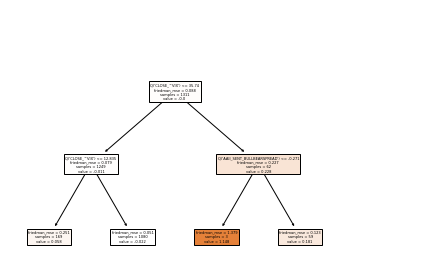
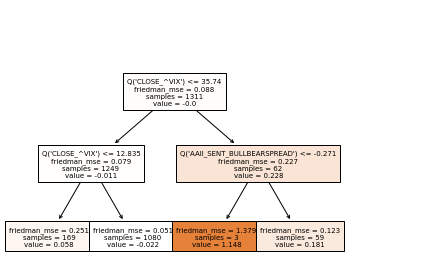
update env and reduce rounding

diff --git a/P1-AnalyzeTrades/P1-AnalyzeTrades_f_buildmodel.py b/P1-AnalyzeTrades/P1-AnalyzeTrades_f_buildmodel.py
@@ -9,6 +9,7 @@ retune = True #hyperparameter tuning
 # imports
 
 import importlib  # for importing other packages
+import os
 import pandas as pd
 import numpy as np
 from patsy import dmatrices
@@ -341,13 +342,17 @@ sub_tree_1 = reg.estimators_[0, 0]  # pull first 1 estimator, actual regressor v
 
 tree.plot_tree(sub_tree_1,
            feature_names = list(X_train.columns),
-           filled = True)
+           filled = True,
+            fontsize=7)
 
 plt.tight_layout()
 plt.savefig('tree_plot1.png',bbox_inches = "tight")
 plt.show()
 
 mlflow.log_artifact('tree_plot1.png')
+
+os.system('pipenv lock --keep-outdated -d -r > output/requirements.txt')
+mlflow.log_artifact('output/srequirements.txt')
 
 mlflow.end_run()
 
@@ -422,6 +427,9 @@ model_sig = infer_signature(X_train, y_train)
 mlflow.h2o.log_model(glm,'model',signature=model_sig)
 
 h2o.cluster().shutdown(prompt=False) 
+
+os.system('pipenv lock --keep-outdated -d -r > output/requirements.txt')
+mlflow.log_artifact('output/srequirements.txt')
 
 mlflow.end_run()
 
@@ -517,6 +525,9 @@ model_sig = infer_signature(X_train, y_train)
 mlflow.h2o.log_model(gbm,'model',signature=model_sig)
 
 h2o.cluster().shutdown(prompt=False) 
+
+os.system('pipenv lock --keep-outdated -d -r > output/requirements.txt')
+mlflow.log_artifact('output/srequirements.txt')
 
 mlflow.end_run()
 

diff --git a/P1-AnalyzeTrades/app.py b/P1-AnalyzeTrades/app.py
@@ -60,7 +60,7 @@ def main():
                                 'YEARS_TO_NORMALIZATION':YEARS_TO_NORMALIZATION,
                                 'IMPLIED_P_E': IMPLIED_P_E,
                 },
-                result=str(np.round(prediction,4)),
+                result=str(np.round(prediction,3)),
         )
 
 @app.route('/doc',methods=['GET'])

diff --git a/P1-AnalyzeTrades/README.md b/P1-AnalyzeTrades/README.md
@@ -22,6 +22,8 @@ C4 style approach, see README puml files and pngs
 
 ### C3 Backend Outline
 
+1. enter virtual environment for P-1...
+    1. if in vs-code can select environment from jupyter/python dropdown
 1. read in portfolio and trades from IB activity statement (tradelog..py)
 1. append own characteristics
 1. append market data
@@ -30,12 +32,13 @@ C4 style approach, see README puml files and pngs
 1. validation exhibits
 1. test estimated predicted return for single record
 1. **decide best model** by copying run from local mlflow to repo mlflow and update `app.py`
-1. **update requirements in P1- folder** by running `pipenv lock -r > requirements.txt` and copying to P1-... folder
-1. **run tests** including `pytest` and `docker build...` below
+1. **update requirements in P1- folder** by running `pipenv lock --keep-outdated -d -r > requirements.txt` outside virtual env and copying to P1-... folder
+    1. faster, if available: pull requirements.txt directly from mlflow run
+1. **run tests** including `pytest` and `flask run` and `docker build...` below
 
 ### MLFlow
 
-1. First time build: Terminal `pipenv sync` to create environment,
+1. First time build: Terminal `pipenv sync --dev` or `pipenv install --dev` to install env locally or update and install environment
 1. Terminal: `pipenv shell` to enter environment or in vs code, right click open terminal in folder with pipfile
 1. `mlflow ui --backend-store-uri file:C:/Stuff/OneDrive/MLflow` to enter environment
 1. To shut down, type "ctrl + c" in terminal
